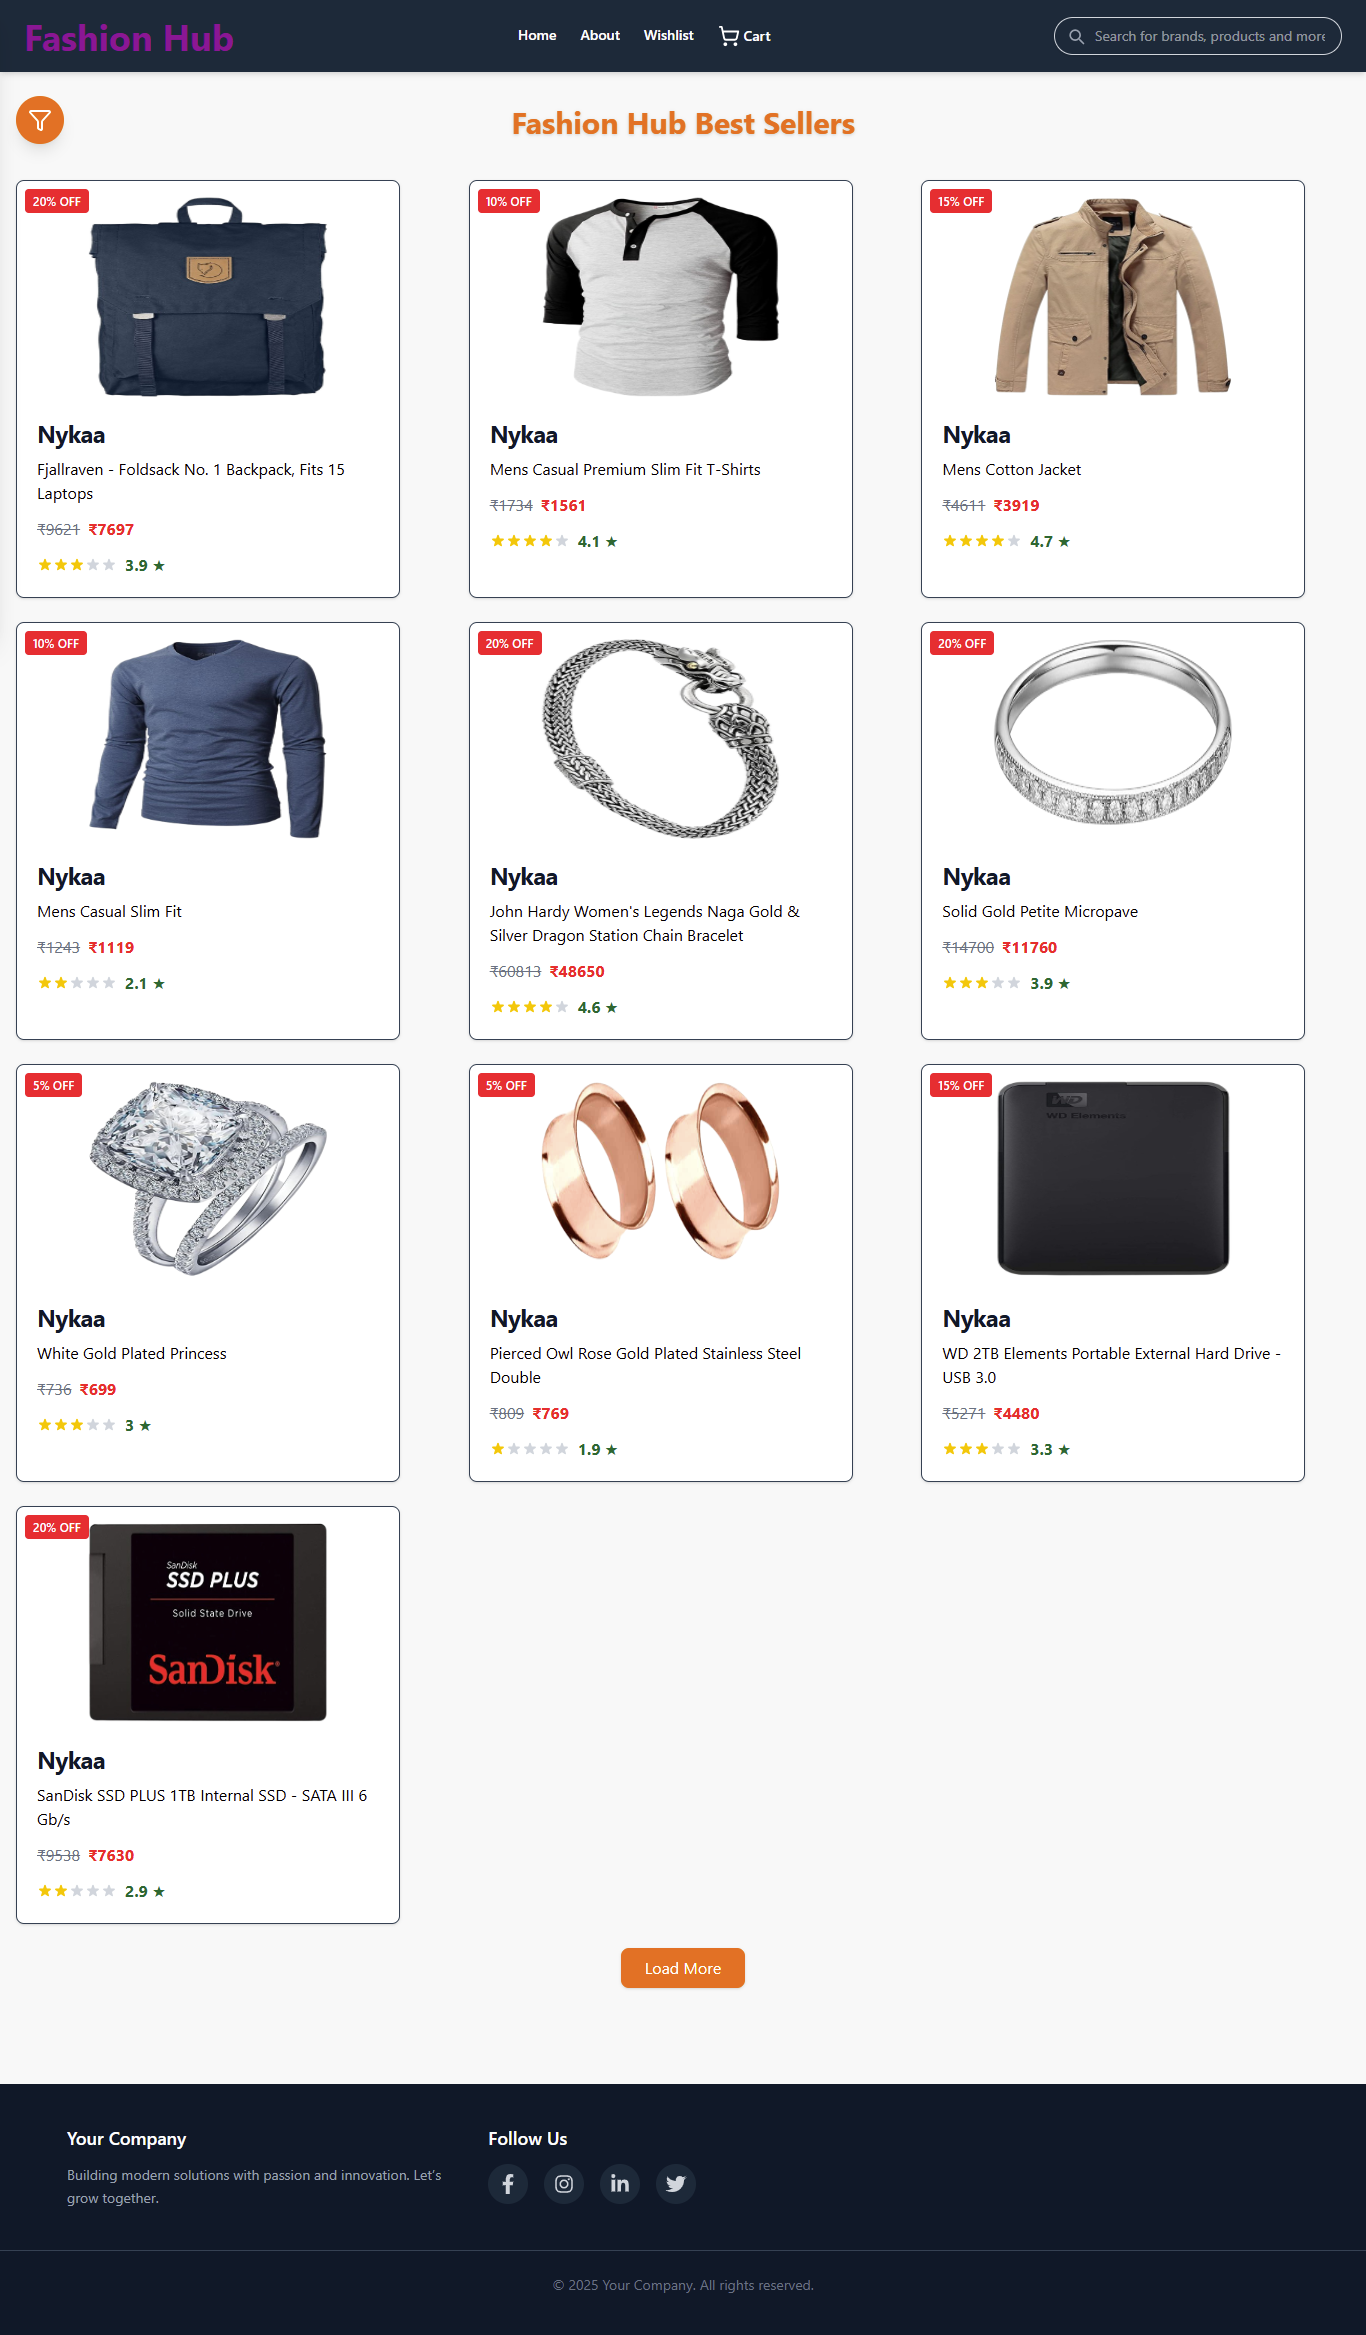
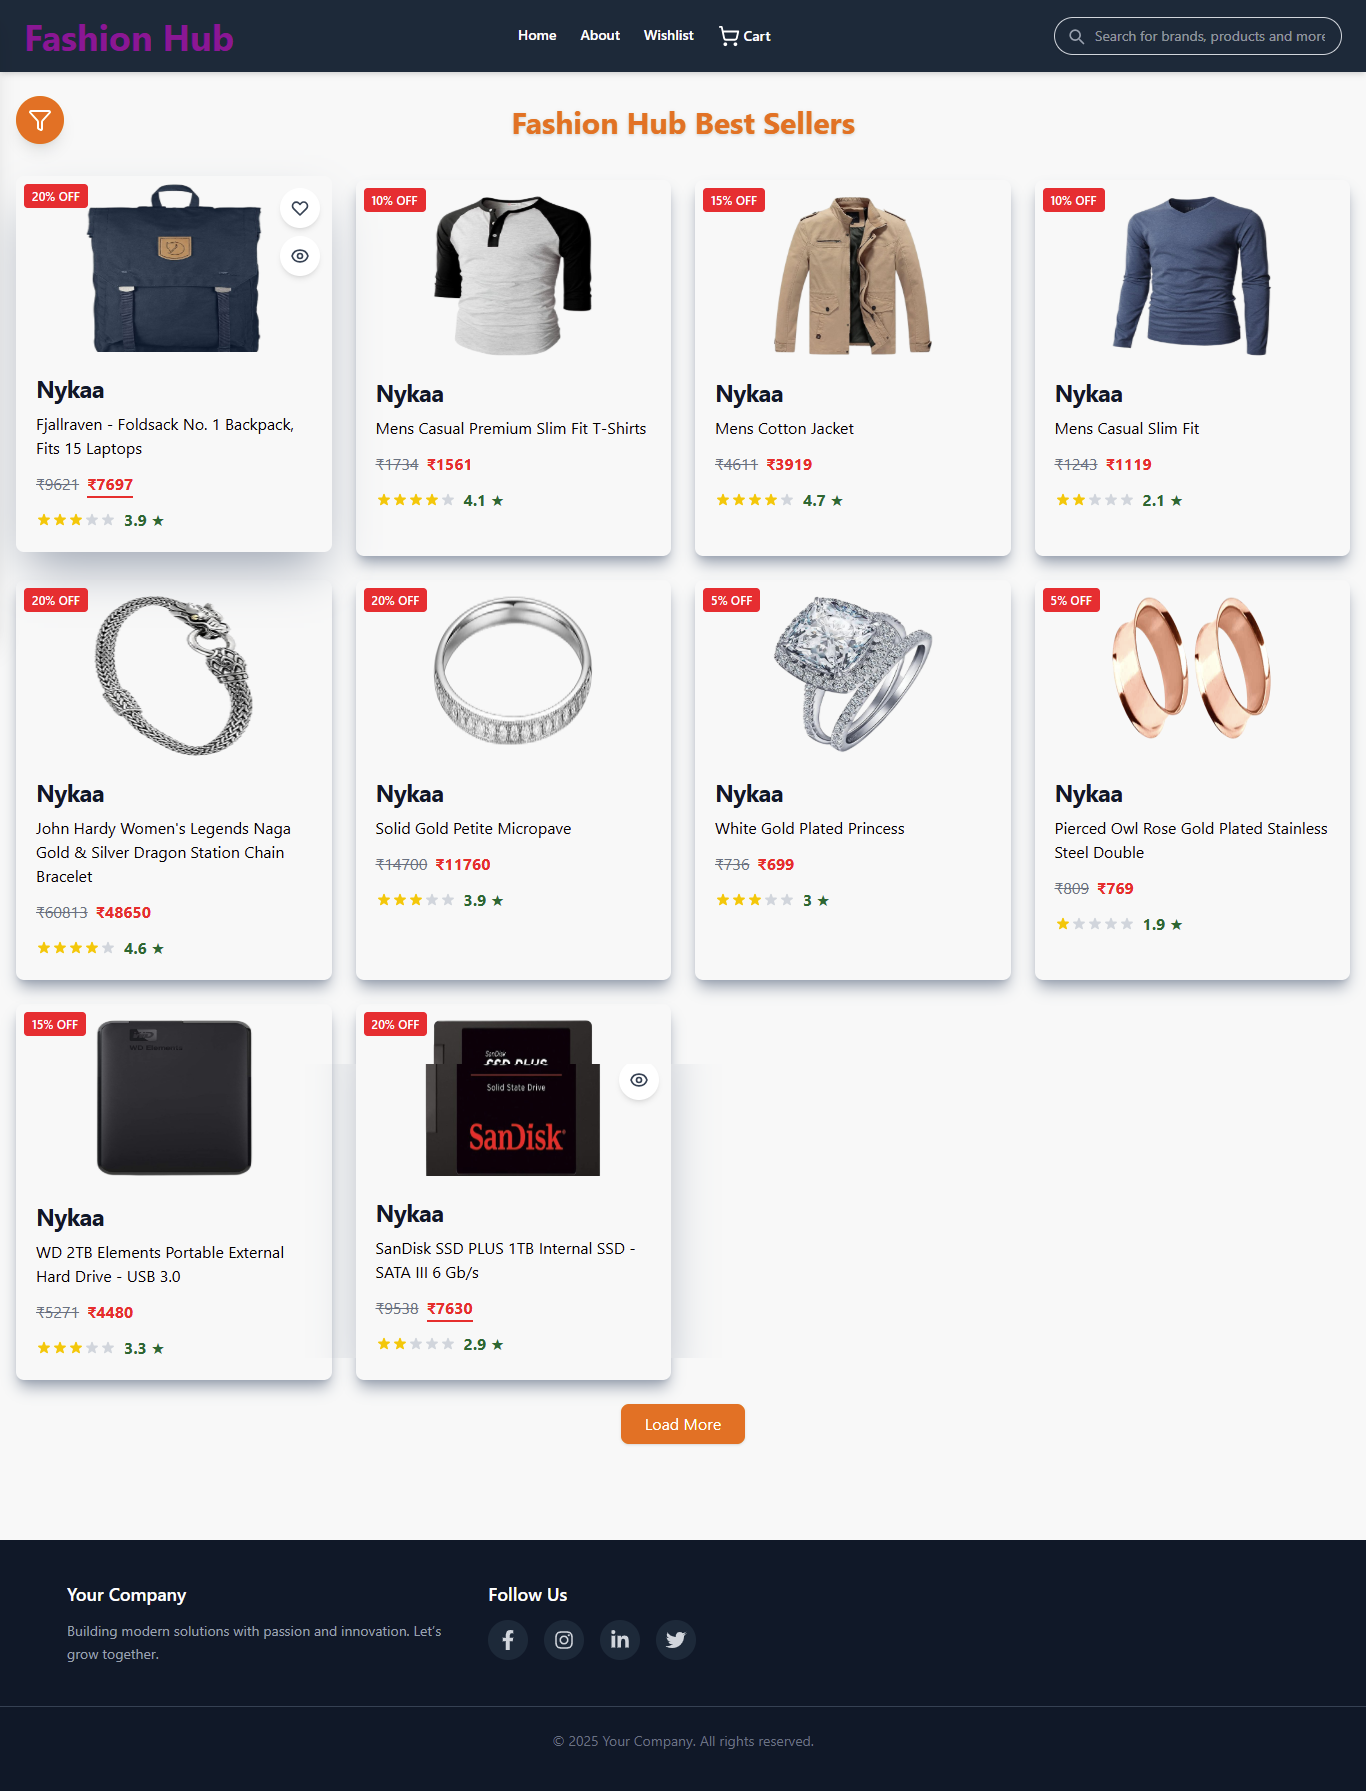
""updated"

Changed region(s): [[0.0, 0.0, 1.0, 0.952], [0.3997, 0.952, 0.5842, 0.9827], [0.6149, 0.4606, 0.6457, 0.4913]]

diff --git a/fashion-ecommerce-app/src/Components/ProductCard/ProductCard.jsx b/fashion-ecommerce-app/src/Components/ProductCard/ProductCard.jsx
@@ -7,7 +7,7 @@ const ProductCard = ({ product }) => {
 
   return (
     <div 
-      className="product-card relative max-w-sm bg-white border border-gray-200 rounded-lg shadow-sm dark:border-gray-700 overflow-hidden transition-all duration-300 hover:shadow-xl hover:-translate-y-1"
+      className="product-card relative max-w-sm rounded-lg shadow-lg dark:shadow-gray-400 overflow-hidden transition-all duration-300 hover:shadow-2xl hover:-translate-y-1"
       onMouseEnter={() => setIsHovered(true)}
       onMouseLeave={() => setIsHovered(false)}
     >
@@ -16,7 +16,7 @@ const ProductCard = ({ product }) => {
           <img
             src={product?.image}
             alt={product?.name}
-            className={`product-image rounded-t-lg w-60 mx-auto mt-4 h-50 max-w-full transition-transform duration-700 ${isHovered ? 'scale-110' : 'scale-100'} ${imageLoaded ? 'opacity-100' : 'opacity-0'}`}
+            className={`product-image rounded-t-lg w-40 mx-auto mt-4 h-40 max-w-full transition-transform duration-700 ${isHovered ? 'scale-110' : 'scale-100'} ${imageLoaded ? 'opacity-100' : 'opacity-0'}`}
             onLoad={() => setImageLoaded(true)}
           />
           
@@ -35,7 +35,7 @@ const ProductCard = ({ product }) => {
             </span>
           )}
           
-          {/* Quick action buttons that appear on hover */}
+          {/* Quick action buttons */}
           <div className={`absolute top-3 right-3 flex flex-col space-y-2 transition-all duration-300 ${isHovered ? 'opacity-100 translate-x-0' : 'opacity-0 translate-x-10'}`}>
             <button className="w-10 h-10 rounded-full bg-white shadow-md flex items-center justify-center hover:bg-gray-100 transition-colors">
               <svg className="w-5 h-5 text-gray-700" fill="none" stroke="currentColor" viewBox="0 0 24 24" xmlns="http://www.w3.org/2000/svg">
@@ -66,13 +66,11 @@ const ProductCard = ({ product }) => {
             </span>
             <span className="font-bold text-red-600 relative">
               ₹{product.price}
-              {/* Animated price underline effect */}
               <span className={`absolute left-0 -bottom-1 h-0.5 bg-red-600 transition-all duration-300 ${isHovered ? 'w-full' : 'w-0'}`}></span>
             </span>
           </div>
         )}
         <div className="product-rating mt-2 flex items-center">
-          {/* Star rating visual */}
           <div className="relative inline-flex mr-2">
             {[...Array(5)].map((_, i) => (
               <svg key={i} className={`w-4 h-4 ${i < Math.floor(product.rating) ? 'text-yellow-400' : 'text-gray-300'}`} fill="currentColor" viewBox="0 0 20 20">

diff --git a/fashion-ecommerce-app/src/Components/ProductList/ProductsList.jsx b/fashion-ecommerce-app/src/Components/ProductList/ProductsList.jsx
@@ -135,7 +135,7 @@ const ProductsList = () => {
         </div>
 
         {/* Products Grid */}
-        <div className="grid grid-cols-2 sm:grid-cols-2 md:grid-cols-3 lg:grid-cols-3 gap-6 mt-10 text-black">
+        <div className="grid grid-cols-2 sm:grid-cols-2 md:grid-cols-3 lg:grid-cols-4 gap-6 mt-10 text-black">
           {products.map((product) => (
             <ProductCard key={product.id} product={product} />
           ))}
